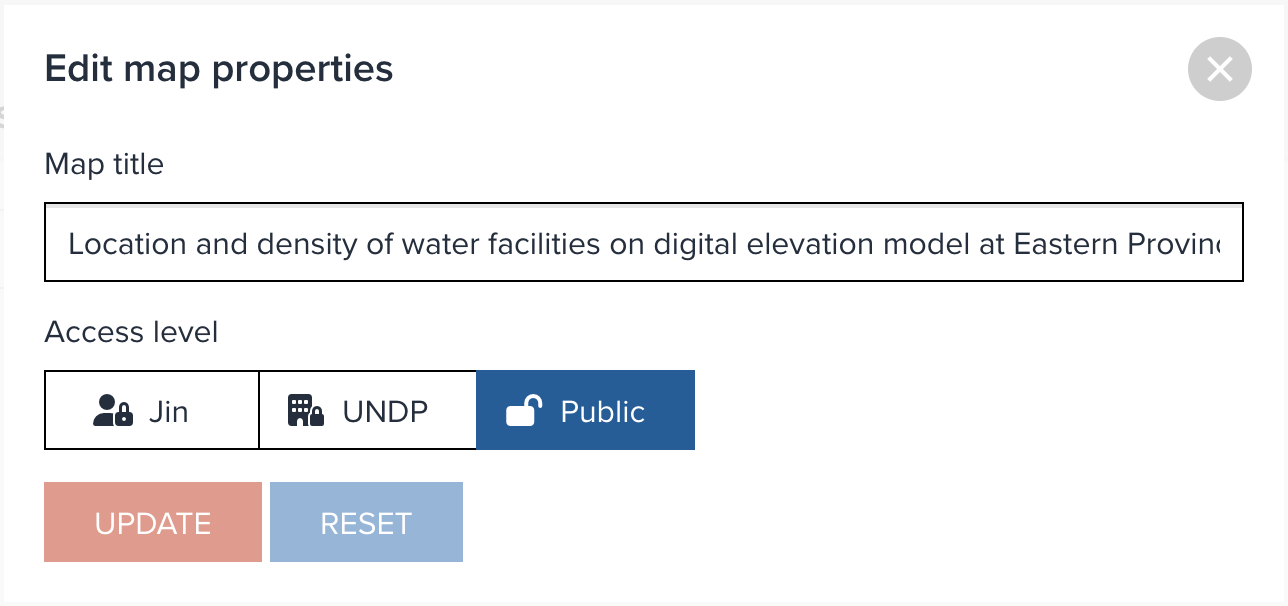
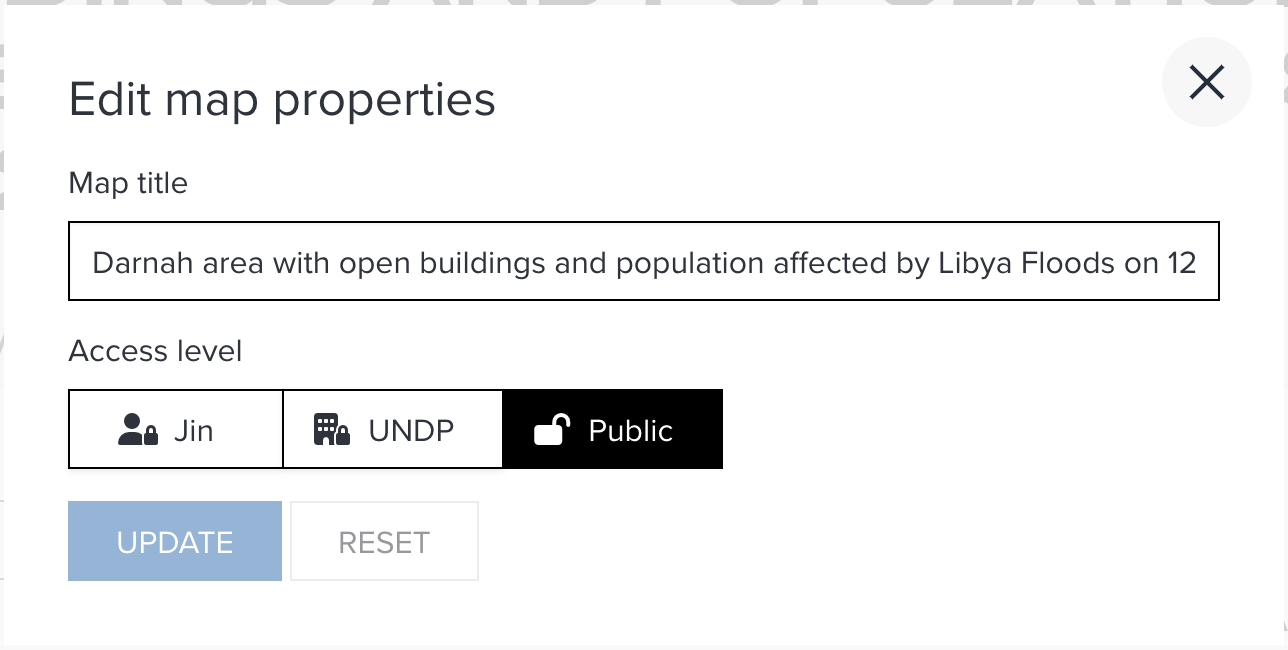
fix: fixed button style for edit map dialog

diff --git a/sites/geohub/src/routes/(app)/maps/[id]/+page.svelte b/sites/geohub/src/routes/(app)/maps/[id]/+page.svelte
@@ -496,7 +496,7 @@
 
 		<div slot="buttons">
 			<button
-				class="button is-primary {isUpdating ? 'is-loading' : ''} is-uppercase"
+				class="button is-link {isUpdating ? 'is-loading' : ''} is-uppercase"
 				on:click={handleUpdateStyle}
 				disabled={isUpdating ||
 					(editMapTitle === mapStyle.name && editAccessLevel === mapStyle.access_level)}
@@ -504,7 +504,7 @@
 				update
 			</button>
 			<button
-				class="button is-link {isUpdating ? 'is-loading' : ''} is-uppercase"
+				class="button {isUpdating ? 'is-loading' : ''} is-uppercase"
 				on:click={handleResetStyle}
 				disabled={isUpdating ||
 					(editMapTitle === mapStyle.name && editAccessLevel === mapStyle.access_level)}
